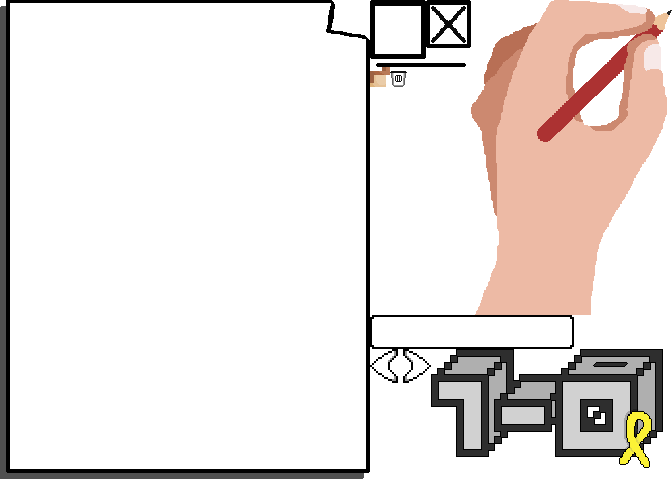
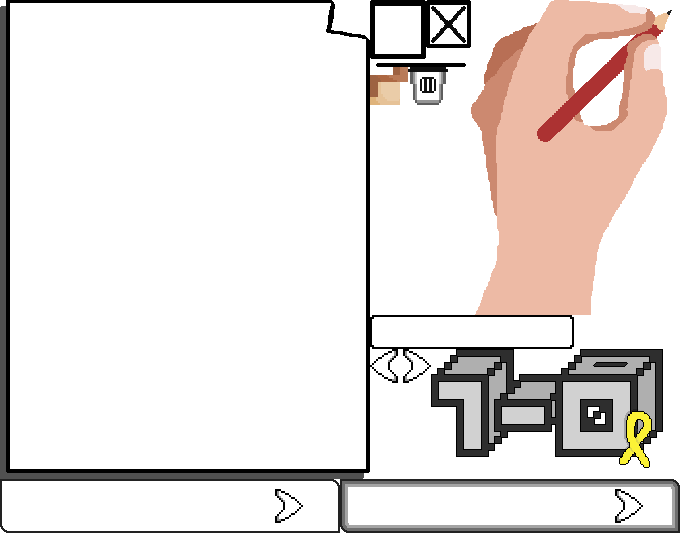
Added Pause Menu with all buttons functional (Except Options)

Changed region(s): [[0.0, 0.0, 1.0, 1.0], [0.7812, 0.0, 1.0, 0.2923]]

diff --git a/Motor2D/Menu.cpp b/Motor2D/Menu.cpp
@@ -218,12 +218,12 @@ void Menu::MenuButtons()
 	{
 		if (play_ui)
 		{
-			App->scene->level = App->scene->MENU_PLAY;			
+			App->scene->level = MENU_PLAY;			
 			LoadPlayUI();
 		}
 		if (options_ui)
 		{
-			App->scene->level = App->scene->OPTIONS;
+			App->scene->level = OPTIONS;
 			LoadOptionUI();
 		}
 		if (exit_ui)
@@ -323,13 +323,13 @@ void Menu::PlayButtons()
 			App->gui->DeleteUI(exit_options);
 			App->gui->DeleteUI(cross);
 			App->gui->DeleteUI(hand);
-			ResetMenu();
 			App->LoadGame();
 		}
 
 		if (new_game_ui)
 		{
-			App->scene->level = App->scene->level_1;
+			ResetMenu();
+			App->scene->level =level_1;
 			App->fadetoblack->FadeToBlack((j1Module*)App->scene, (j1Module*)App->scene, 1.5);
 		}
 	}
@@ -410,7 +410,7 @@ void Menu::ResetMenu()
 	App->gui->DeleteUI(cross);
 	play_ui = options_ui = exit_ui = continue_ui = new_game_ui = false;
 	hand = App->gui->AddImage(337, 420, ui_texture, hand_anim);
-	App->scene->level = App->scene->MENU;
+	App->scene->level = MENU;
 }
 
 

diff --git a/Motor2D/Player.cpp b/Motor2D/Player.cpp
@@ -409,17 +409,17 @@ void Player::Shoot()
 void Player::CheckIfChange() {
 
 	if (App->entities->lvl2) {
-		App->scene->level = App->scene->level_2;
+		App->scene->level = level_2;
 		App->scene->changeMap = true;
 	}
 
 	if (App->entities->hidden_level) {
-		App->scene->level = App->scene->hidden_level;
+		App->scene->level = hidden_level;
 		App->scene->changeMap = true;
 	}
 
 	if (App->entities->congrats) {
-		App->scene->level = App->scene->congrats;
+		App->scene->level = congrats;
 		App->scene->changeMap = true;
 	}
 }

diff --git a/Motor2D/j1Scene.h b/Motor2D/j1Scene.h
@@ -5,6 +5,17 @@
 #include "Animation.h"
 
 
+enum Levels
+{
+	MENU,
+	OPTIONS,
+	MENU_PLAY,
+	level_1,
+	level_2,
+	hidden_level,
+	congrats,
+};
+
 struct SDL_Texture;
 
 class j1Scene : public j1Module
@@ -51,18 +62,6 @@ public:
 	bool changeMap;
 
 	uint level_change_fx;
-	
-
-	enum Levels
-	{
-		MENU,
-		OPTIONS,
-		MENU_PLAY,
-		level_1,
-		level_2,
-		hidden_level,
-		congrats,
-	};
 
 	int player_lifes = 5;
 	int ammo = 10;

diff --git a/Motor2D/j1Gui.cpp b/Motor2D/j1Gui.cpp
@@ -206,6 +206,9 @@ char * j1Gui::GetFont(uint font)
 	case FREEPIXEL:
 		path = "fonts/FreePixel.ttf";
 		break;
+	case FIPPS:
+		path = "fonts/Fipps.ttf";
+		break;
 	case MINECRAFT:
 		path = "fonts/Minecraft.ttf";
 		break;

diff --git a/Motor2D/j1Gui.h b/Motor2D/j1Gui.h
@@ -34,6 +34,7 @@ enum UI_STATE {
 enum FONTS
 {
 	NO_FONT,
+	FIPPS,
 	FREEPIXEL,
 	MINECRAFT,
 	UPHEAVAL
